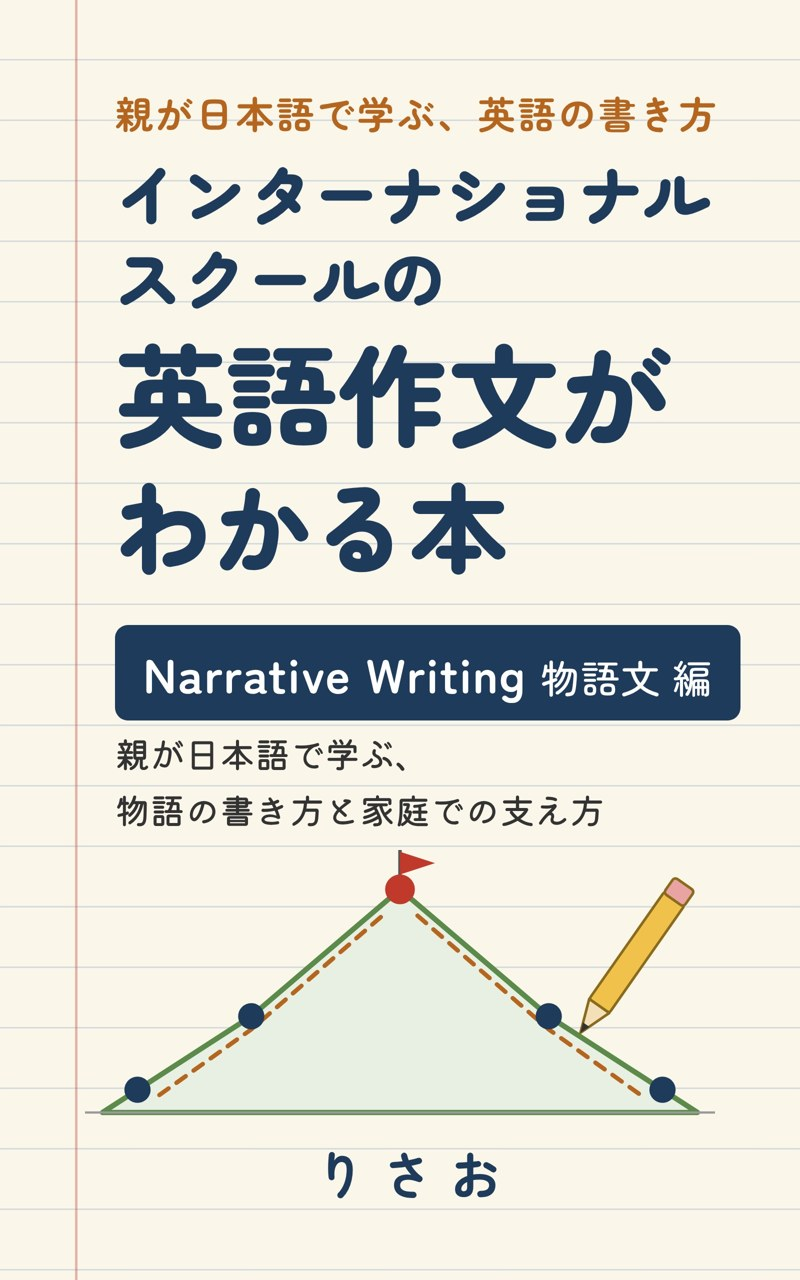
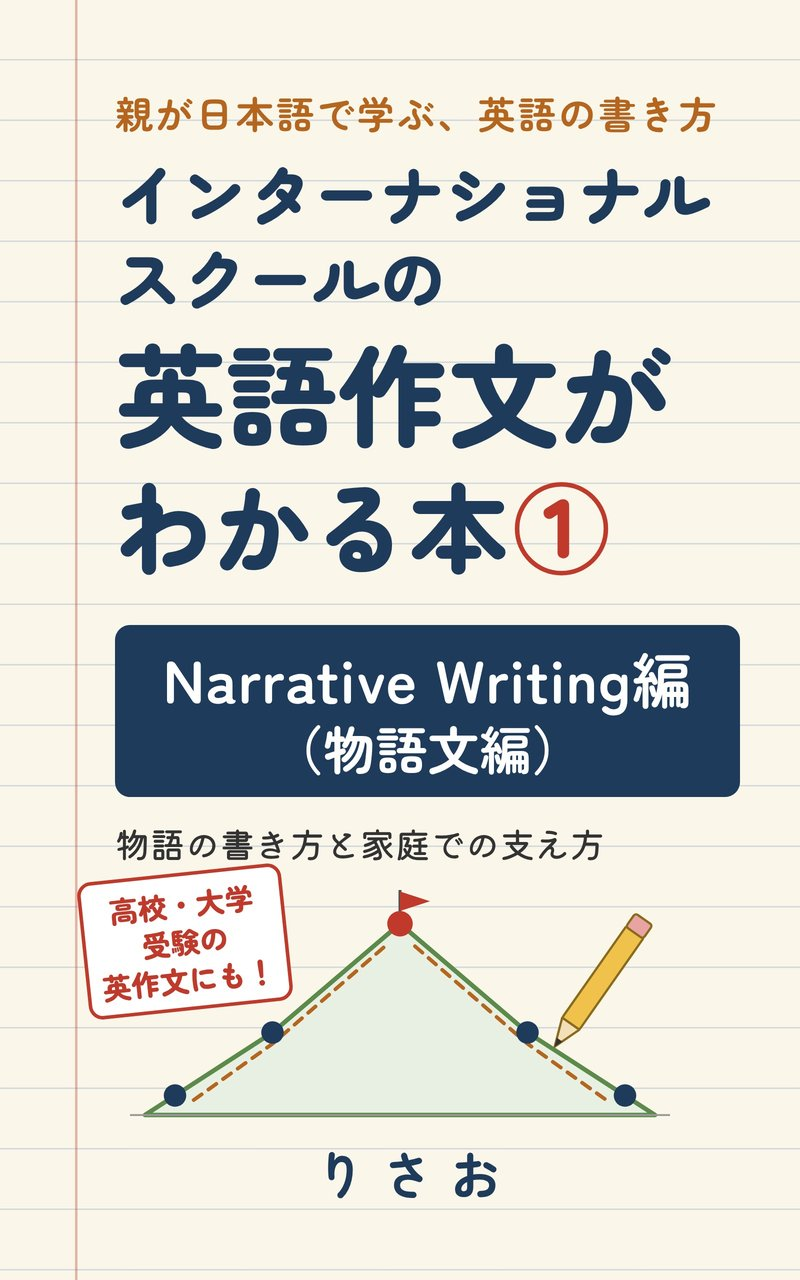
第2巻 Opinion Writing 編の書籍紹介ページを追加、トップページの本の表に追加、第1巻のページを①入りの書名・新しい表紙に
Claude-Session: https://claude.ai/code/session_01DfGA2XLgwDfYEECgVHqVxM

Changed region(s): [[0.0938, 0.5, 0.9375, 0.875], [0.625, 0.375, 0.75, 0.4688], [0.75, 0.4062, 0.7812, 0.4375]]

diff --git a/books/opinion-writing.md b/books/opinion-writing.md
@@ -1,0 +1,66 @@
+# Kindle本：インターナショナルスクールの英語作文がわかる本② — Opinion Writing編（意見文編）
+
+**発売中です（2026年11月13日発売）。** [Amazon の商品ページ](https://www.amazon.co.jp/dp/B0HRJ8JMYK)
+
+<a href="https://www.amazon.co.jp/dp/B0HRJ8JMYK"><img src="images/opinion-writing-cover.jpg" alt="本の表紙：インターナショナルスクールの英語作文がわかる本②　Opinion Writing編（意見文編）" width="240"></a>
+
+- **書名**：インターナショナルスクールの英語作文がわかる本②　Opinion Writing編（意見文編）　親が日本語で学ぶ、「なぜなら」から始まる意見の書き方と家庭での支え方
+- **著者**：りさお
+- **形式**：Kindle本（Kindle Unlimited でも読めます）
+- **価格**：[Amazon の商品ページ](https://www.amazon.co.jp/dp/B0HRJ8JMYK)でご確認ください
+- **シリーズ**：第1巻は [Narrative Writing（物語文）編](narrative-writing.md)
+
+## どんな本？
+
+英語圏の学校で、小学校の早い段階から書く「意見文（*Opinion Writing*）」の書き方と、家庭での支え方を、保護者が日本語で学べる本です。*I think … because …*（…だと思います。なぜなら…）の1文から始めて、理由・例・締めくくりのある文章まで、親子で一段ずつ進めます。英語の課題の言葉や例文はそのまま英語で載せ、日本語訳と解説をつけています。
+
+意見に正解はありません。この本では、子どもが自分で決めた意見と理由が、読み手に伝わるように書けることを目指します。
+
+## 対象の読者
+
+- 英語で教育を受けている、おおむね6〜9歳の子どもの保護者（インターナショナルスクール、英語イマージョン校、海外の現地校など）
+- 子どもに英語の作文を教える先生
+- 英語で意見を筋道立てて書く方法を、学び直したい大人
+
+各章の練習はレベル1〜3に分かれているので、学年よりも、子どもの今の力に合わせて選べます。
+
+## 本で学べること
+
+- 意見文とは何か、学校の課題とルーブリック（評価表）の読み方
+- *I think … because …* の1文から、理由を2つ、3つに増やす方法
+- OREO（意見→理由→例→意見）の型、例で理由を支える方法、つなぎの言葉、締めくくりの文
+- 読み手を思い浮かべて書くことと、意見文の計画シート
+- 子どもの意見を生かす声かけと添削、推敲・発表・振り返り
+
+## 目次
+
+| 章 | タイトル |
+|---|---|
+| 第1章 | 意見文とは何か |
+| 第2章 | 学校の課題とルーブリックの読み方 |
+| 第3章 | *I think … because …*：最初の1文 |
+| 第4章 | 理由を2つ、3つに増やす |
+| 第5章 | OREO：意見→理由→例→意見 |
+| 第6章 | 例で理由を支える |
+| 第7章 | つなぎの言葉 |
+| 第8章 | 締めくくりの文：意見をもう一度、別の言葉で |
+| 第9章 | 読み手を思い浮かべる |
+| 第10章 | 意見文の計画シート（発展） |
+| 第11章 | 見本を読む→一緒に書く→自分で書く |
+| 第12章 | 子どもの意見を奪わない添削とフィードバック |
+| 第13章 | 推敲・発表・振り返り |
+
+各章に、おすすめの声かけと避けたい声かけ、親子で試す15分間の練習（レベル1〜3）があります。付録には、課題によく出る英語の語彙集、3段階の模範作品、添削前後の例、保護者用チェックリスト、1日15分×12回の学習プラン、参考資料、全章の練習の解答例を入れています。
+
+## ブログの記事
+
+発売のお知らせと、意見文の基本は、ブログ「東大理三夫婦のこそだて」の連載【英語ライティング】で読めます。
+
+- [【英語ライティング#6】英語の意見文、親はどう手伝う？（発売のお知らせ）](https://risan.jpn.org/?p=17267)：本を書いたきっかけと、本でわかること
+- [【英語ライティング#7】英語の「意見文」とは？ opinion・persuasive・argument のちがいと、米・英・豪・IBで学ぶこと](https://risan.jpn.org/?p=17268)：意見文の呼び名のちがいと、各国の学校で学ぶこと
+
+## このサイトで読めること
+
+OREO、PEEL など段落の型の一覧は、[Writing の分類](../writing/taxonomy.md)にまとめています。シリーズの次の巻として、Essay Writing（エッセイ）編を準備しています。
+
+[← トップページに戻る](../README.md)

diff --git a/books/narrative-writing.md b/books/narrative-writing.md
@@ -1,10 +1,10 @@
-# Kindle本：インターナショナルスクールの英語作文がわかる本 — Narrative Writing（物語文）編
+# Kindle本：インターナショナルスクールの英語作文がわかる本① — Narrative Writing（物語文）編
 
 **発売中です（2026年11月8日発売）。** [Amazon の商品ページ](https://www.amazon.co.jp/dp/B0HQY24QD6)
 
-<a href="https://www.amazon.co.jp/dp/B0HQY24QD6"><img src="images/narrative-writing-cover.jpg" alt="本の表紙：インターナショナルスクールの英語作文がわかる本　Narrative Writing（物語文）編" width="240"></a>
+<a href="https://www.amazon.co.jp/dp/B0HQY24QD6"><img src="images/narrative-writing-cover.jpg" alt="本の表紙：インターナショナルスクールの英語作文がわかる本①　Narrative Writing（物語文）編" width="240"></a>
 
-- **書名**：インターナショナルスクールの英語作文がわかる本　Narrative Writing（物語文）編　親が日本語で学ぶ、物語の書き方と家庭での支え方
+- **書名**：インターナショナルスクールの英語作文がわかる本①　Narrative Writing（物語文）編　親が日本語で学ぶ、物語の書き方と家庭での支え方
 - **著者**：りさお
 - **形式**：Kindle本（Kindle Unlimited でも読めます）
 - **価格**：[Amazon の商品ページ](https://www.amazon.co.jp/dp/B0HQY24QD6)でご確認ください
@@ -43,6 +43,10 @@
 付録には、課題によく出る英語の語彙集、レベル別の模範作品、保護者用チェックリスト、1日15分×12回の学習プラン、全章の練習の解答例を入れています。
 
 発売のお知らせと、ブログの連載との違いは、[ブログ記事「Kindle本を出版しました」](https://risan.jpn.org/?p=17245)にまとめています。
+
+## シリーズの本
+
+続きの第2巻 [Opinion Writing（意見文）編](opinion-writing.md)も発売中です。*I think … because …* の1文から、理由と例のある意見文までを扱います。
 
 ## このサイトで読めること
 

diff --git a/README.md b/README.md
@@ -18,9 +18,10 @@
 
 | 本 | 状態 |
 |---|---|
-| [インターナショナルスクールの英語作文がわかる本 — Narrative Writing（物語文）編](books/narrative-writing.md) | 発売中（[Amazon](https://www.amazon.co.jp/dp/B0HQY24QD6)） |
+| [インターナショナルスクールの英語作文がわかる本① — Narrative Writing（物語文）編](books/narrative-writing.md) | 発売中（[Amazon](https://www.amazon.co.jp/dp/B0HQY24QD6)） |
+| [インターナショナルスクールの英語作文がわかる本② — Opinion Writing（意見文）編](books/opinion-writing.md) | 発売中（[Amazon](https://www.amazon.co.jp/dp/B0HRJ8JMYK)） |
 
-物語文（Narrative Writing）のくわしい書き方は、この本で扱います。
+物語文（Narrative Writing）と意見文（Opinion Writing）のくわしい書き方は、それぞれの本で扱います。
 
 ## 学びの全体像とガイド
 
@@ -47,5 +48,5 @@
 **English Writing Lab** introduces the writing and presentation structures taught in English-speaking schools, explained in Japanese for parents. Lessons are added from the simplest first.
 
 - Lesson: [Show & Tell — first presentation lesson](lessons/presentation/show-and-tell.md) (ages 5–7)
-- Book (available on [Amazon](https://www.amazon.co.jp/dp/B0HQY24QD6)): [Narrative Writing](books/narrative-writing.md)
+- Books (available on Amazon): [Narrative Writing](books/narrative-writing.md), [Opinion Writing](books/opinion-writing.md)
 - Guides: [learning path](curriculum/learning-path.md), [writing taxonomy](writing/taxonomy.md), [presentation pathway](presentation/presentation-path.md), [pitching](presentation/pitching/guide.md), [academic publishing](academic-publishing/guide.md), [reading list](references/reading-list.md), [research notes](research/README.md)
